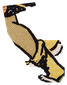
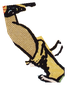
The fool puppet fixes

Changed region(s): [[0.6567, 0.4706, 0.9552, 0.6588], [0.5373, 0.4235, 0.6567, 0.4706], [0.4478, 0.7529, 0.4776, 0.8]]

diff --git a/tools/prepare_puppet.py b/tools/prepare_puppet.py
@@ -97,8 +97,29 @@ FOOL_OUTLINE = [(40, 650), (470, 385), (515, 280), (690, 245), (765, 195), (895,
                 (1045, 650), (1015, 905), (900, 915), (765, 905), (745, 1040), (805, 1165), (800, 1285), (700, 1335),
                 (600, 1305), (585, 1425), (445, 1425), (430, 1260), (415, 1060), (355, 1060), (335, 900), (150, 885),
                 (40, 790)]
-DOG_OUTLINE = [(700, 1245), (780, 1235), (838, 1160), (968, 1160), (980, 1225), (1002, 1262), (1048, 1288),
-               (1052, 1400), (1030, 1580), (880, 1580), (855, 1448), (760, 1428), (700, 1335)]
+DOG_OUTLINE = [(700, 1245), (780, 1235), (838, 1160), (968, 1160), (980, 1225), (1002, 1262), (1043, 1290),
+               (1045, 1400), (1030, 1572), (880, 1572), (855, 1448), (760, 1428), (700, 1335)]
+# The back boot (its toe points left), so the yellow sky around it is still
+# removed even though the boot is a similar yellow.
+BACK_BOOT = [(482, 1212), (566, 1212), (568, 1330), (576, 1392), (468, 1392), (470, 1360), (482, 1330)]
+# The raised front boot and shin, kept left of the shin's right-hand ink line
+# (sky and snow lie beyond it).
+FRONT_BOOT = [(672, 1128), (716, 1112), (800, 1240), (795, 1290), (672, 1290)]
+# Leftovers that touch the figure's ink and so survive the background
+# growth: the card's left frame line where the staff meets it, strands of
+# mountain outline beside the back boot, and cliff edges under the front foot
+# and around the dog's paws.
+FOOL_ERASE = [
+    box(30, 590, 76, 840),        # card frame line at the staff's tip
+    box(420, 1270, 479, 1305),    # mountain outline left of the back boot
+    box(569, 1238, 600, 1265),    # …and right of it
+    box(585, 1205, 650, 1250),    # mountain outline between the legs
+    box(690, 1352, 845, 1450),    # cliff under the front foot
+    box(836, 1432, 928, 1600),    # cliff left of the dog's hind paws
+    box(1004, 1490, 1075, 1600),  # cliff right of them
+    box(850, 1150, 890, 1183),    # snow above the dog's nose
+    box(1012, 1255, 1075, 1303),  # rock above the dog's tail
+]
 
 
 def fool_mask(img: Image.Image) -> Image.Image:
@@ -109,9 +130,9 @@ def fool_mask(img: Image.Image) -> Image.Image:
     thick = img.filter(ImageFilter.MinFilter(5))  # ink grows ~2 px, closing small gaps
     px = thick.load()
     # Where white is part of the figure: the dog, the boots, the shirt, the rose.
-    white_ok = poly_mask(img.size, DOG_OUTLINE, box(462, 1215, 578, 1415), box(670, 1130, 800, 1290),
+    white_ok = poly_mask(img.size, DOG_OUTLINE, BACK_BOOT, FRONT_BOOT,
                          box(90, 600, 470, 800), box(460, 480, 580, 580), box(900, 470, 1030, 580)).load()
-    boots = poly_mask(img.size, box(462, 1215, 578, 1415), box(670, 1130, 800, 1290)).load()
+    boots = poly_mask(img.size, BACK_BOOT, FRONT_BOOT).load()
     outline = poly_mask(img.size, FOOL_OUTLINE, DOG_OUTLINE).load()
     bg = bytearray(W * H)
     for y in range(H):
@@ -131,7 +152,8 @@ def fool_mask(img: Image.Image) -> Image.Image:
                 seen[i] = 1
                 q.append(i)
     # Background pockets enclosed by the figure (between the legs, under the staff).
-    for x, y in [(600, 1200), (640, 1260), (400, 500), (300, 840), (860, 940), (700, 1100)]:
+    # …and the snow walled in beside the raised shin.
+    for x, y in [(600, 1200), (640, 1260), (400, 500), (300, 840), (860, 940), (700, 1100), (775, 1170), (770, 1185)]:
         i = y * W + x
         if bg[i] and not seen[i]:
             seen[i] = 1
@@ -144,10 +166,42 @@ def fool_mask(img: Image.Image) -> Image.Image:
                 seen[j] = 1
                 q.append(j)
     fig = Image.frombytes("L", (W, H), bytes(0 if s else 255 for s in seen))
-    ground = poly_mask(img.size, box(46, 46, W - 46, 1408), DOG_OUTLINE)
+    # Ground: the back boot's sole rests on the cliff at y ≈ 1393.
+    ground = poly_mask(img.size, box(46, 46, W - 46, 1393), DOG_OUTLINE)
     fig = ImageChops.multiply(ImageChops.multiply(fig, ground), poly_mask(img.size, FOOL_OUTLINE, DOG_OUTLINE))
-    # A strand of mountain outline caught between the legs.
-    fig = ImageChops.subtract(fig, poly_mask(img.size, box(585, 1205, 650, 1250)))
+    fig = ImageChops.subtract(fig, poly_mask(img.size, *FOOL_ERASE))
+    # The dog is white with black markings. Below his head, anything warm
+    # (the cliff's tan rock and red hatching) or blue (snow) inside his
+    # outline is background seen between his back, legs and tail.
+    o = img.load()
+    behind_dog = Image.new("L", img.size, 0)
+    bd = behind_dog.load()
+    dog = poly_mask(img.size, DOG_OUTLINE).load()
+    for y in range(1262, 1600):
+        for x in range(820, 1080):
+            if dog[x, y]:
+                r, g, b = o[x, y]
+                if (r > 90 and r - b > 55) or (b > r + 10 and b > 100):
+                    bd[x, y] = 255
+    # Close the hatching's thin gaps so the whole rock patch goes, not just
+    # its coloured stripes.
+    behind_dog = behind_dog.filter(ImageFilter.MaxFilter(5)).filter(ImageFilter.MinFilter(3))
+    fig = ImageChops.subtract(fig, behind_dog)
+    # The rock's black strokes remain. The dog's own ink (outline, spots)
+    # always borders his white fur; strokes sticking out into empty space do
+    # not. On the dog, keep only what lies within ~9 px of fur.
+    dog_box = box(840, 1150, 1080, 1600)
+    fur = Image.new("L", img.size, 0)
+    fp = fur.load()
+    for y in range(1150, 1600):
+        for x in range(840, 1080):
+            if dog[x, y]:
+                r, g, b = o[x, y]
+                if min(r, g, b) > 165 and max(r, g, b) - min(r, g, b) < 50:
+                    fp[x, y] = 255
+    near_fur = fur.filter(ImageFilter.MaxFilter(19))
+    far_from_fur = ImageChops.subtract(ImageChops.multiply(poly_mask(img.size, DOG_OUTLINE), poly_mask(img.size, dog_box)), near_fur)
+    fig = ImageChops.subtract(fig, far_from_fur)
     fig = fig.filter(ImageFilter.MinFilter(5))  # undo the ink thickening at the outer edge
     fig = fig.filter(ImageFilter.MaxFilter(3)).filter(ImageFilter.MinFilter(3))
     out = component(fig, (560, 700))
